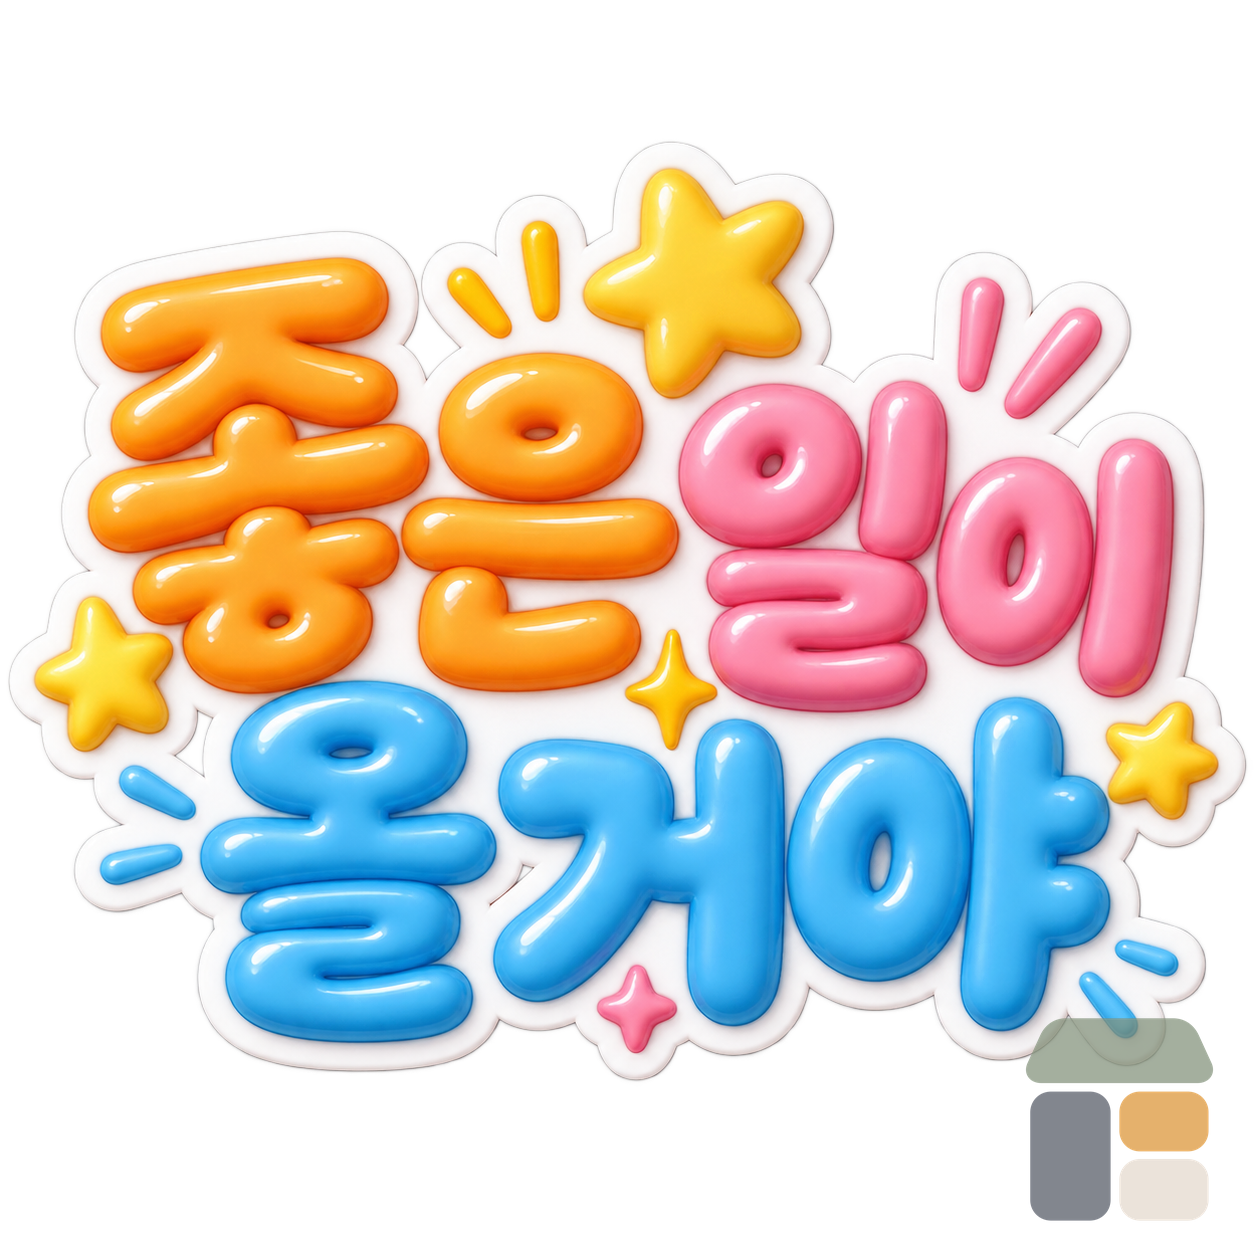
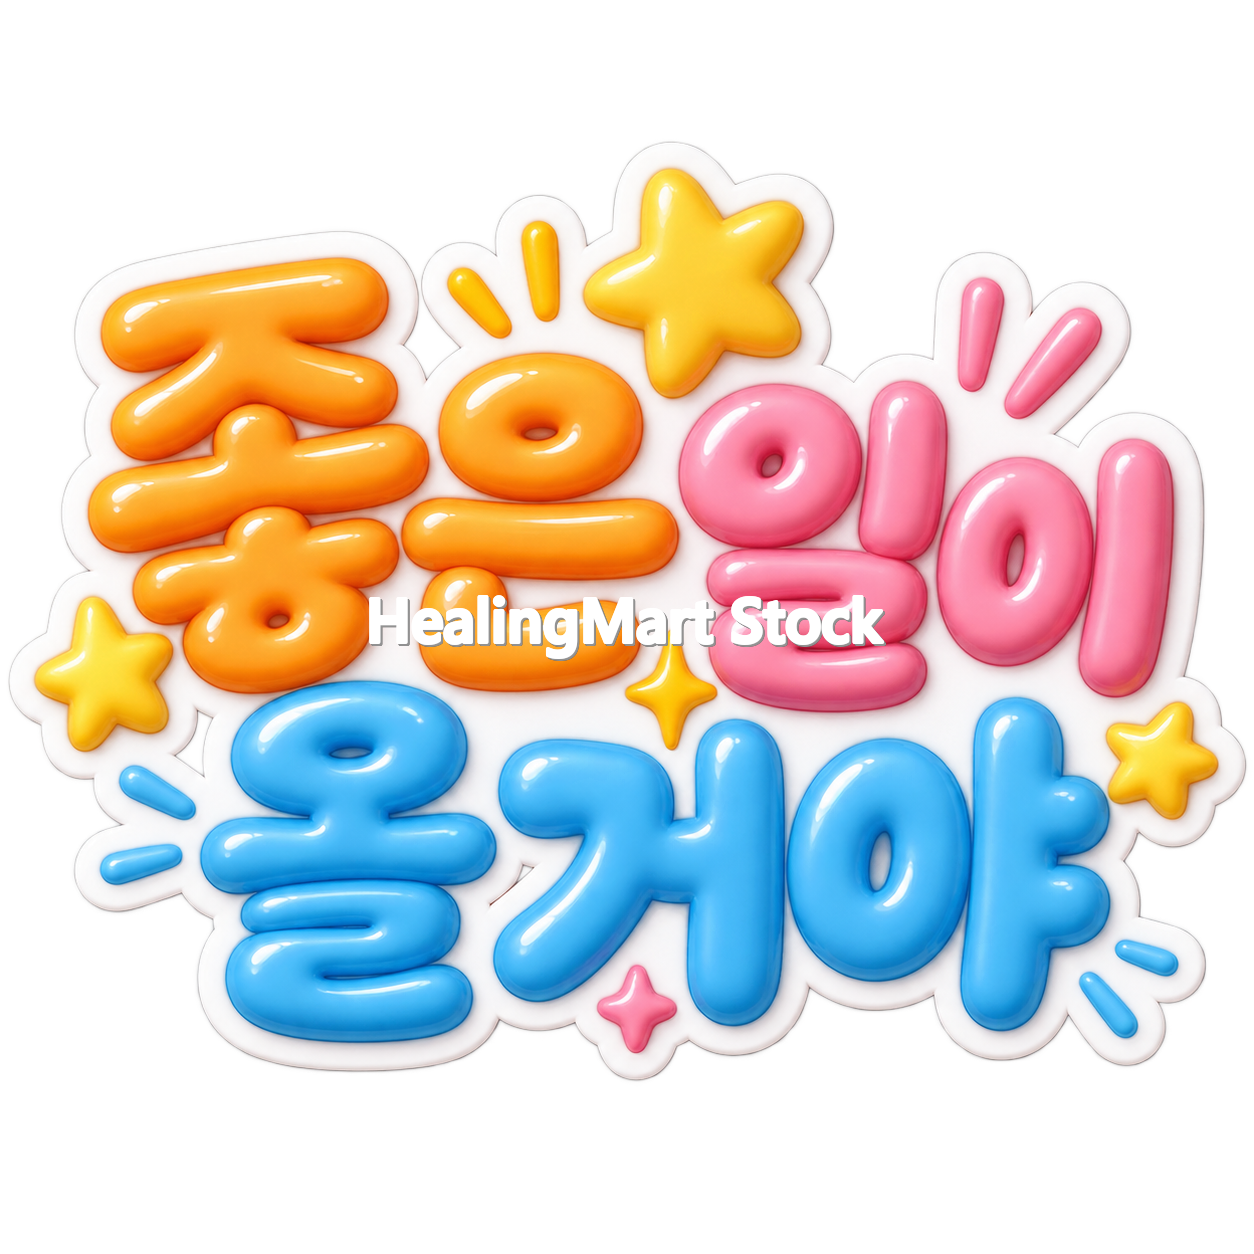
Use centered text watermark for stock previews

Changed region(s): [[0.8086, 0.8086, 0.9641, 0.9952], [0.2799, 0.4665, 0.7153, 0.5287]]

diff --git a/stock/manifest.js b/stock/manifest.js
@@ -1,1 +1,1 @@
[2 lines of base64/hex data omitted]

diff --git a/stock/ops/stock-auto.py b/stock/ops/stock-auto.py
@@ -4,7 +4,7 @@ from datetime import datetime, timezone
 from pathlib import Path
 from urllib.parse import quote
 from urllib.request import urlopen, Request
-from PIL import Image
+from PIL import Image, ImageDraw, ImageFont
 
 BASE = Path(r"E:\HealingMart-Stock")
 CFG = json.loads((BASE / "stock-config.json").read_text(encoding="utf-8"))
@@ -101,20 +101,35 @@ def fit_copy(im, max_edge):
     return out
 
 def apply_logo(im):
+    # Preview/thumbnail watermark: centered text only.
+    # The clean full-resolution download remains untouched.
     base=im.convert("RGBA")
-    if not LOGO_FILE.exists():
-        return base
-    with Image.open(LOGO_FILE) as lg:
-        logo=lg.convert("RGBA")
-        target=max(90,min(260,int(base.width*0.18)))
-        ratio=target/max(1,logo.width)
-        logo=logo.resize((target,max(1,int(logo.height*ratio))),Image.Resampling.LANCZOS)
-        alpha=logo.getchannel("A").point(lambda v:int(v*0.72))
-        logo.putalpha(alpha)
-        pad=max(12,int(base.width*0.018))
-        x=max(0,base.width-logo.width-pad)
-        y=max(0,base.height-logo.height-pad)
-        base.alpha_composite(logo,(x,y))
+    text="HealingMart Stock"
+    draw=ImageDraw.Draw(base)
+    font_path=Path(r"C:\Windows\Fonts\seguisb.ttf")
+    fallback=Path(r"C:\Windows\Fonts\arialbd.ttf")
+    font_file=font_path if font_path.exists() else fallback
+    target_w=max(180,int(base.width*0.42))
+    size=max(18,int(base.width*0.07))
+    font=None
+    while size>=12:
+        try:
+            font=ImageFont.truetype(str(font_file),size)
+        except Exception:
+            font=ImageFont.load_default()
+        box=draw.textbbox((0,0),text,font=font,stroke_width=max(1,size//24))
+        if box[2]-box[0] <= target_w:
+            break
+        size-=2
+    box=draw.textbbox((0,0),text,font=font,stroke_width=max(1,size//24))
+    tw,th=box[2]-box[0],box[3]-box[1]
+    x=(base.width-tw)//2
+    y=(base.height-th)//2-box[1]
+    stroke=max(1,size//24)
+    # Soft dark underlay plus translucent white lettering keeps the mark legible
+    # on both light and dark stock while remaining obviously a preview watermark.
+    draw.text((x+2,y+2),text,font=font,fill=(0,0,0,95),stroke_width=stroke,stroke_fill=(0,0,0,110))
+    draw.text((x,y),text,font=font,fill=(255,255,255,105),stroke_width=stroke,stroke_fill=(255,255,255,45))
     return base
 
 def save_webp(im, path, transparent, preview=False):
